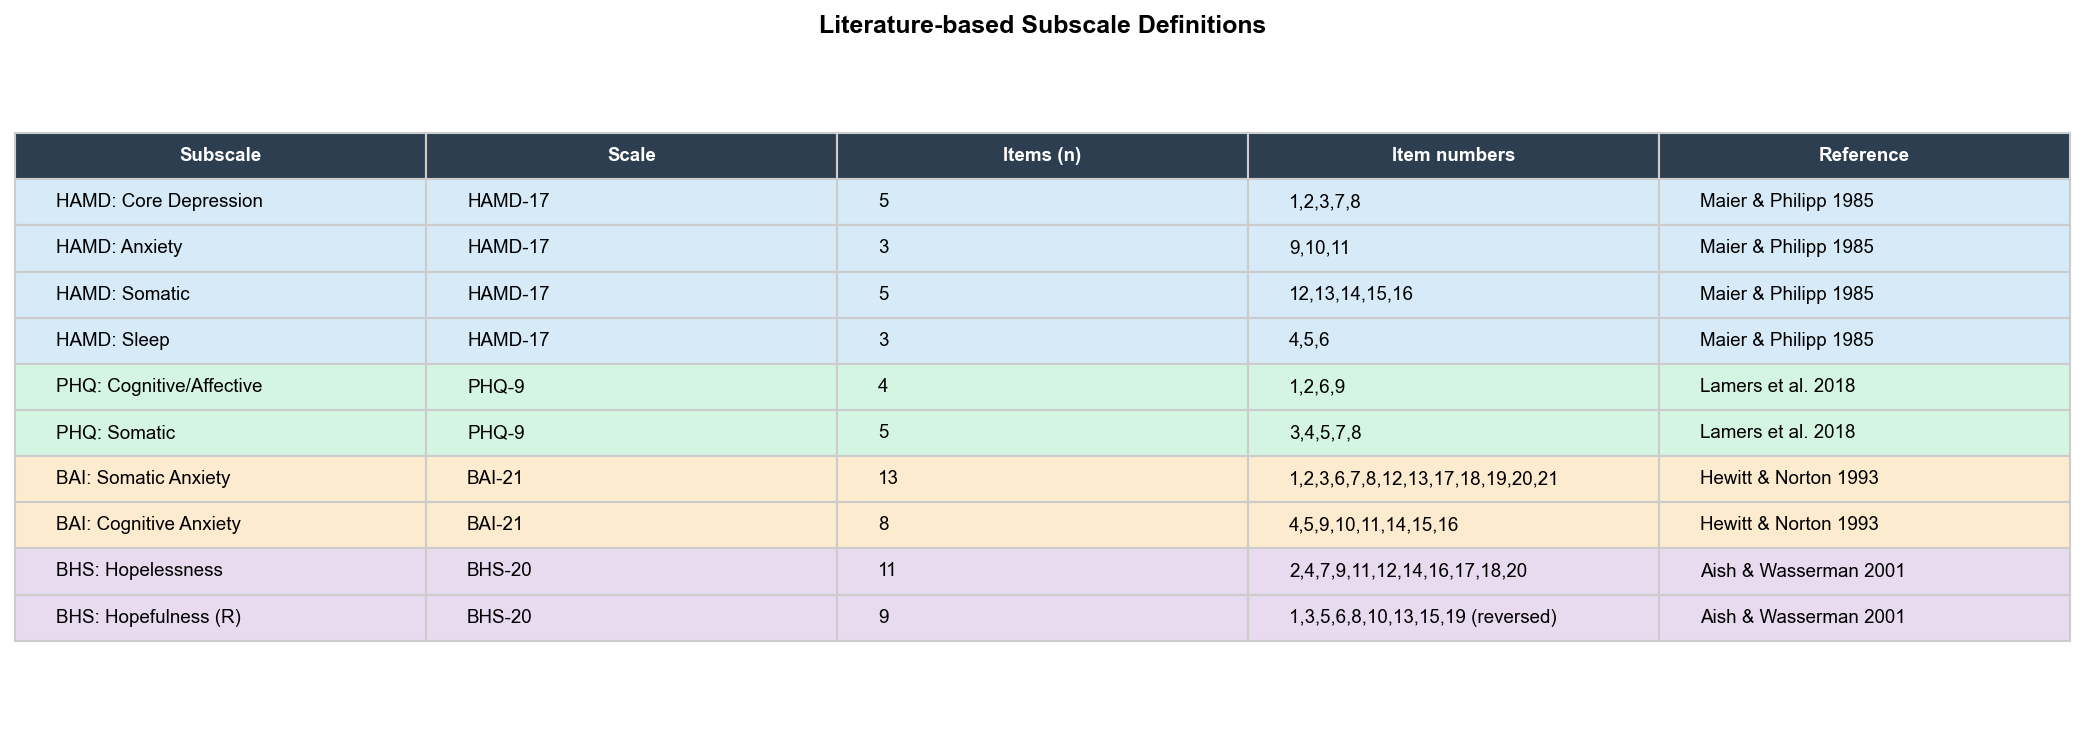
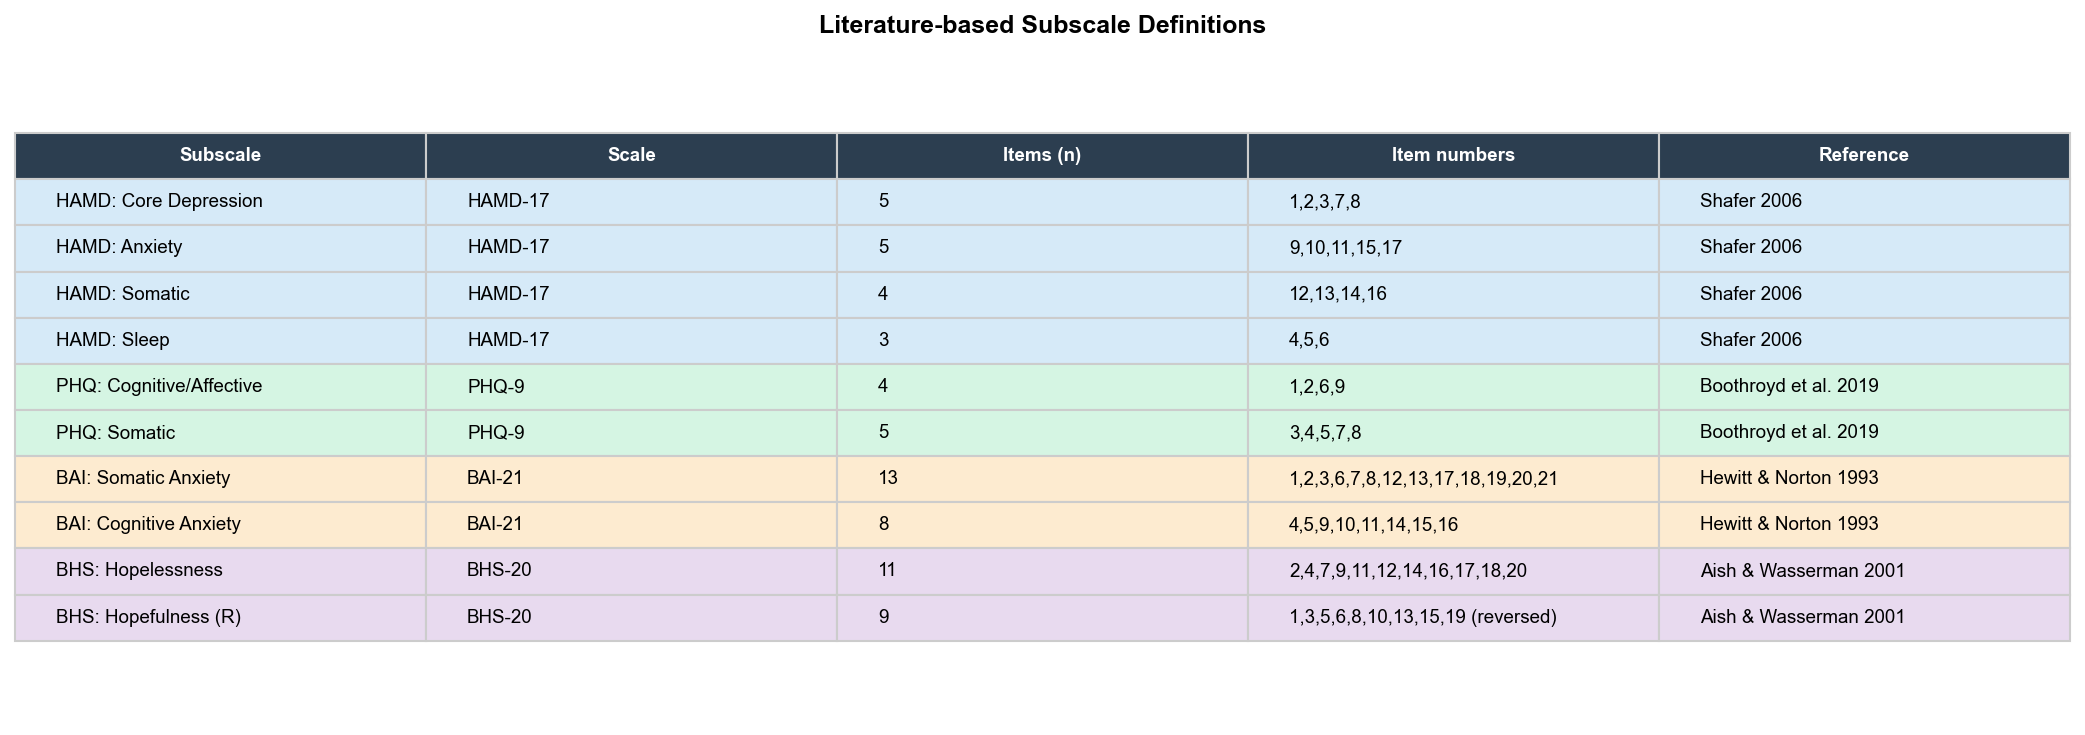
Fix HAMD subscales to Shafer (2006); update PHQ ref to Boothroyd et al. 2019
HAMD changes (Shafer 2006, PMID 16287149):
  - Anxiety: 9,10,11 → 9,10,11,15,17 (added hypochondriasis, insight)
  - Somatic: 12,13,14,15,16 → 12,13,14,16 (moved item 15 to Anxiety)

PHQ ref: Lamers et al. 2018 → Boothroyd et al. 2019 (doi:10.1016/j.psychres.2018.12.048)

Results unchanged: BAI_Somatic only FDR-sig for liwc_death; F0 none

https://claude.ai/code/session_01RjnTqhxgmBNbXBjWGBsfdn

diff --git a/plot_subscale.py b/plot_subscale.py
@@ -45,12 +45,12 @@ SC_LABELS = {
 }
 
 REF_LABELS = {
-    'HAMD_Depression': 'Maier & Philipp 1985\n(items 1,2,3,7,8)',
-    'HAMD_Anxiety':    'Maier & Philipp 1985\n(items 9,10,11)',
-    'HAMD_Somatic':    'Maier & Philipp 1985\n(items 12–16)',
-    'HAMD_Sleep':      'Maier & Philipp 1985\n(items 4,5,6)',
-    'PHQ_CogAffect':   'Lamers et al. 2018\n(items 1,2,6,9)',
-    'PHQ_Somatic':     'Lamers et al. 2018\n(items 3,4,5,7,8)',
+    'HAMD_Depression': 'Shafer 2006\n(items 1,2,3,7,8)',
+    'HAMD_Anxiety':    'Shafer 2006\n(items 9,10,11,15,17)',
+    'HAMD_Somatic':    'Shafer 2006\n(items 12,13,14,16)',
+    'HAMD_Sleep':      'Shafer 2006\n(items 4,5,6)',
+    'PHQ_CogAffect':   'Boothroyd et al. 2019\n(items 1,2,6,9)',
+    'PHQ_Somatic':     'Boothroyd et al. 2019\n(items 3,4,5,7,8)',
     'BAI_Somatic':     'Hewitt & Norton 1993\n(items 1–3,6–8,12,13,17–21)',
     'BAI_Cognitive':   'Hewitt & Norton 1993\n(items 4,5,9–11,14–16)',
     'BHS_Hopeless':    'Aish & Wasserman 2001\n(items 2,4,7,9,11,12,14,16–18,20)',
@@ -144,12 +144,12 @@ ax.axis('off')
 
 col_labels = ['Subscale', 'Scale', 'Items (n)', 'Item numbers', 'Reference']
 rows = [
-    ['HAMD: Core Depression', 'HAMD-17', '5',  '1,2,3,7,8',              'Maier & Philipp 1985'],
-    ['HAMD: Anxiety',         'HAMD-17', '3',  '9,10,11',                'Maier & Philipp 1985'],
-    ['HAMD: Somatic',         'HAMD-17', '5',  '12,13,14,15,16',         'Maier & Philipp 1985'],
-    ['HAMD: Sleep',           'HAMD-17', '3',  '4,5,6',                  'Maier & Philipp 1985'],
-    ['PHQ: Cognitive/Affective','PHQ-9', '4',  '1,2,6,9',                'Lamers et al. 2018'],
-    ['PHQ: Somatic',          'PHQ-9',   '5',  '3,4,5,7,8',              'Lamers et al. 2018'],
+    ['HAMD: Core Depression', 'HAMD-17', '5',  '1,2,3,7,8',              'Shafer 2006'],
+    ['HAMD: Anxiety',         'HAMD-17', '5',  '9,10,11,15,17',          'Shafer 2006'],
+    ['HAMD: Somatic',         'HAMD-17', '4',  '12,13,14,16',            'Shafer 2006'],
+    ['HAMD: Sleep',           'HAMD-17', '3',  '4,5,6',                  'Shafer 2006'],
+    ['PHQ: Cognitive/Affective','PHQ-9', '4',  '1,2,6,9',                'Boothroyd et al. 2019'],
+    ['PHQ: Somatic',          'PHQ-9',   '5',  '3,4,5,7,8',              'Boothroyd et al. 2019'],
     ['BAI: Somatic Anxiety',  'BAI-21',  '13', '1,2,3,6,7,8,12,13,17,18,19,20,21','Hewitt & Norton 1993'],
     ['BAI: Cognitive Anxiety','BAI-21',  '8',  '4,5,9,10,11,14,15,16',   'Hewitt & Norton 1993'],
     ['BHS: Hopelessness',     'BHS-20',  '11', '2,4,7,9,11,12,14,16,17,18,20','Aish & Wasserman 2001'],

diff --git a/subscale_lme.py b/subscale_lme.py
@@ -64,36 +64,38 @@ def bhs_item(n, df):
     return vals
 
 SUBSCALES = {
-    # ── HAMD-17 (Maier & Philipp 1985) ──────────────────────
+    # ── HAMD-17 (Shafer 2006, J Clin Psychol 62:123-146) ─────
+    # https://pubmed.ncbi.nlm.nih.gov/16287149/
     'HAMD_Depression': {
         'items': ['HAMD1','HAMD2','HAMD3','HAMD7','HAMD8'],
-        'ref': 'Maier & Philipp 1985',
+        'ref': 'Shafer 2006',
         'desc': 'Depressed mood, Guilt, Suicidal ideation, Work, Retardation'
     },
     'HAMD_Anxiety': {
-        'items': ['HAMD9','HAMD10','HAMD11'],
-        'ref': 'Maier & Philipp 1985',
-        'desc': 'Agitation, Psychic anxiety, Somatic anxiety'
+        'items': ['HAMD9','HAMD10','HAMD11','HAMD15','HAMD17'],
+        'ref': 'Shafer 2006',
+        'desc': 'Agitation, Psychic anxiety, Somatic anxiety, Hypochondriasis, Insight'
     },
     'HAMD_Somatic': {
-        'items': ['HAMD12','HAMD13','HAMD14','HAMD15','HAMD16'],
-        'ref': 'Maier & Philipp 1985',
-        'desc': 'GI somatic, General somatic, Genital, Hypochondriasis, Weight'
+        'items': ['HAMD12','HAMD13','HAMD14','HAMD16'],
+        'ref': 'Shafer 2006',
+        'desc': 'GI somatic, General somatic, Genital symptoms, Weight loss'
     },
     'HAMD_Sleep': {
         'items': ['HAMD4','HAMD5','HAMD6'],
-        'ref': 'Maier & Philipp 1985',
+        'ref': 'Shafer 2006',
         'desc': 'Early/Middle/Late insomnia'
     },
-    # ── PHQ-9 (Lamers et al. 2018) ───────────────────────────
+    # ── PHQ-9 (Boothroyd et al. 2019, Psychiatry Res 271:532) ─
+    # https://doi.org/10.1016/j.psychres.2018.12.048
     'PHQ_CogAffect': {
         'items': ['PHQ1','PHQ2','PHQ6','PHQ9'],
-        'ref': 'Lamers et al. 2018',
+        'ref': 'Boothroyd et al. 2019',
         'desc': 'Anhedonia, Depressed mood, Worthlessness, Suicidal thoughts'
     },
     'PHQ_Somatic': {
         'items': ['PHQ3','PHQ4','PHQ5','PHQ7','PHQ8'],
-        'ref': 'Lamers et al. 2018',
+        'ref': 'Boothroyd et al. 2019',
         'desc': 'Sleep, Fatigue, Appetite, Concentration, Psychomotor'
     },
     # ── BAI-21 (Hewitt & Norton 1993) ────────────────────────
